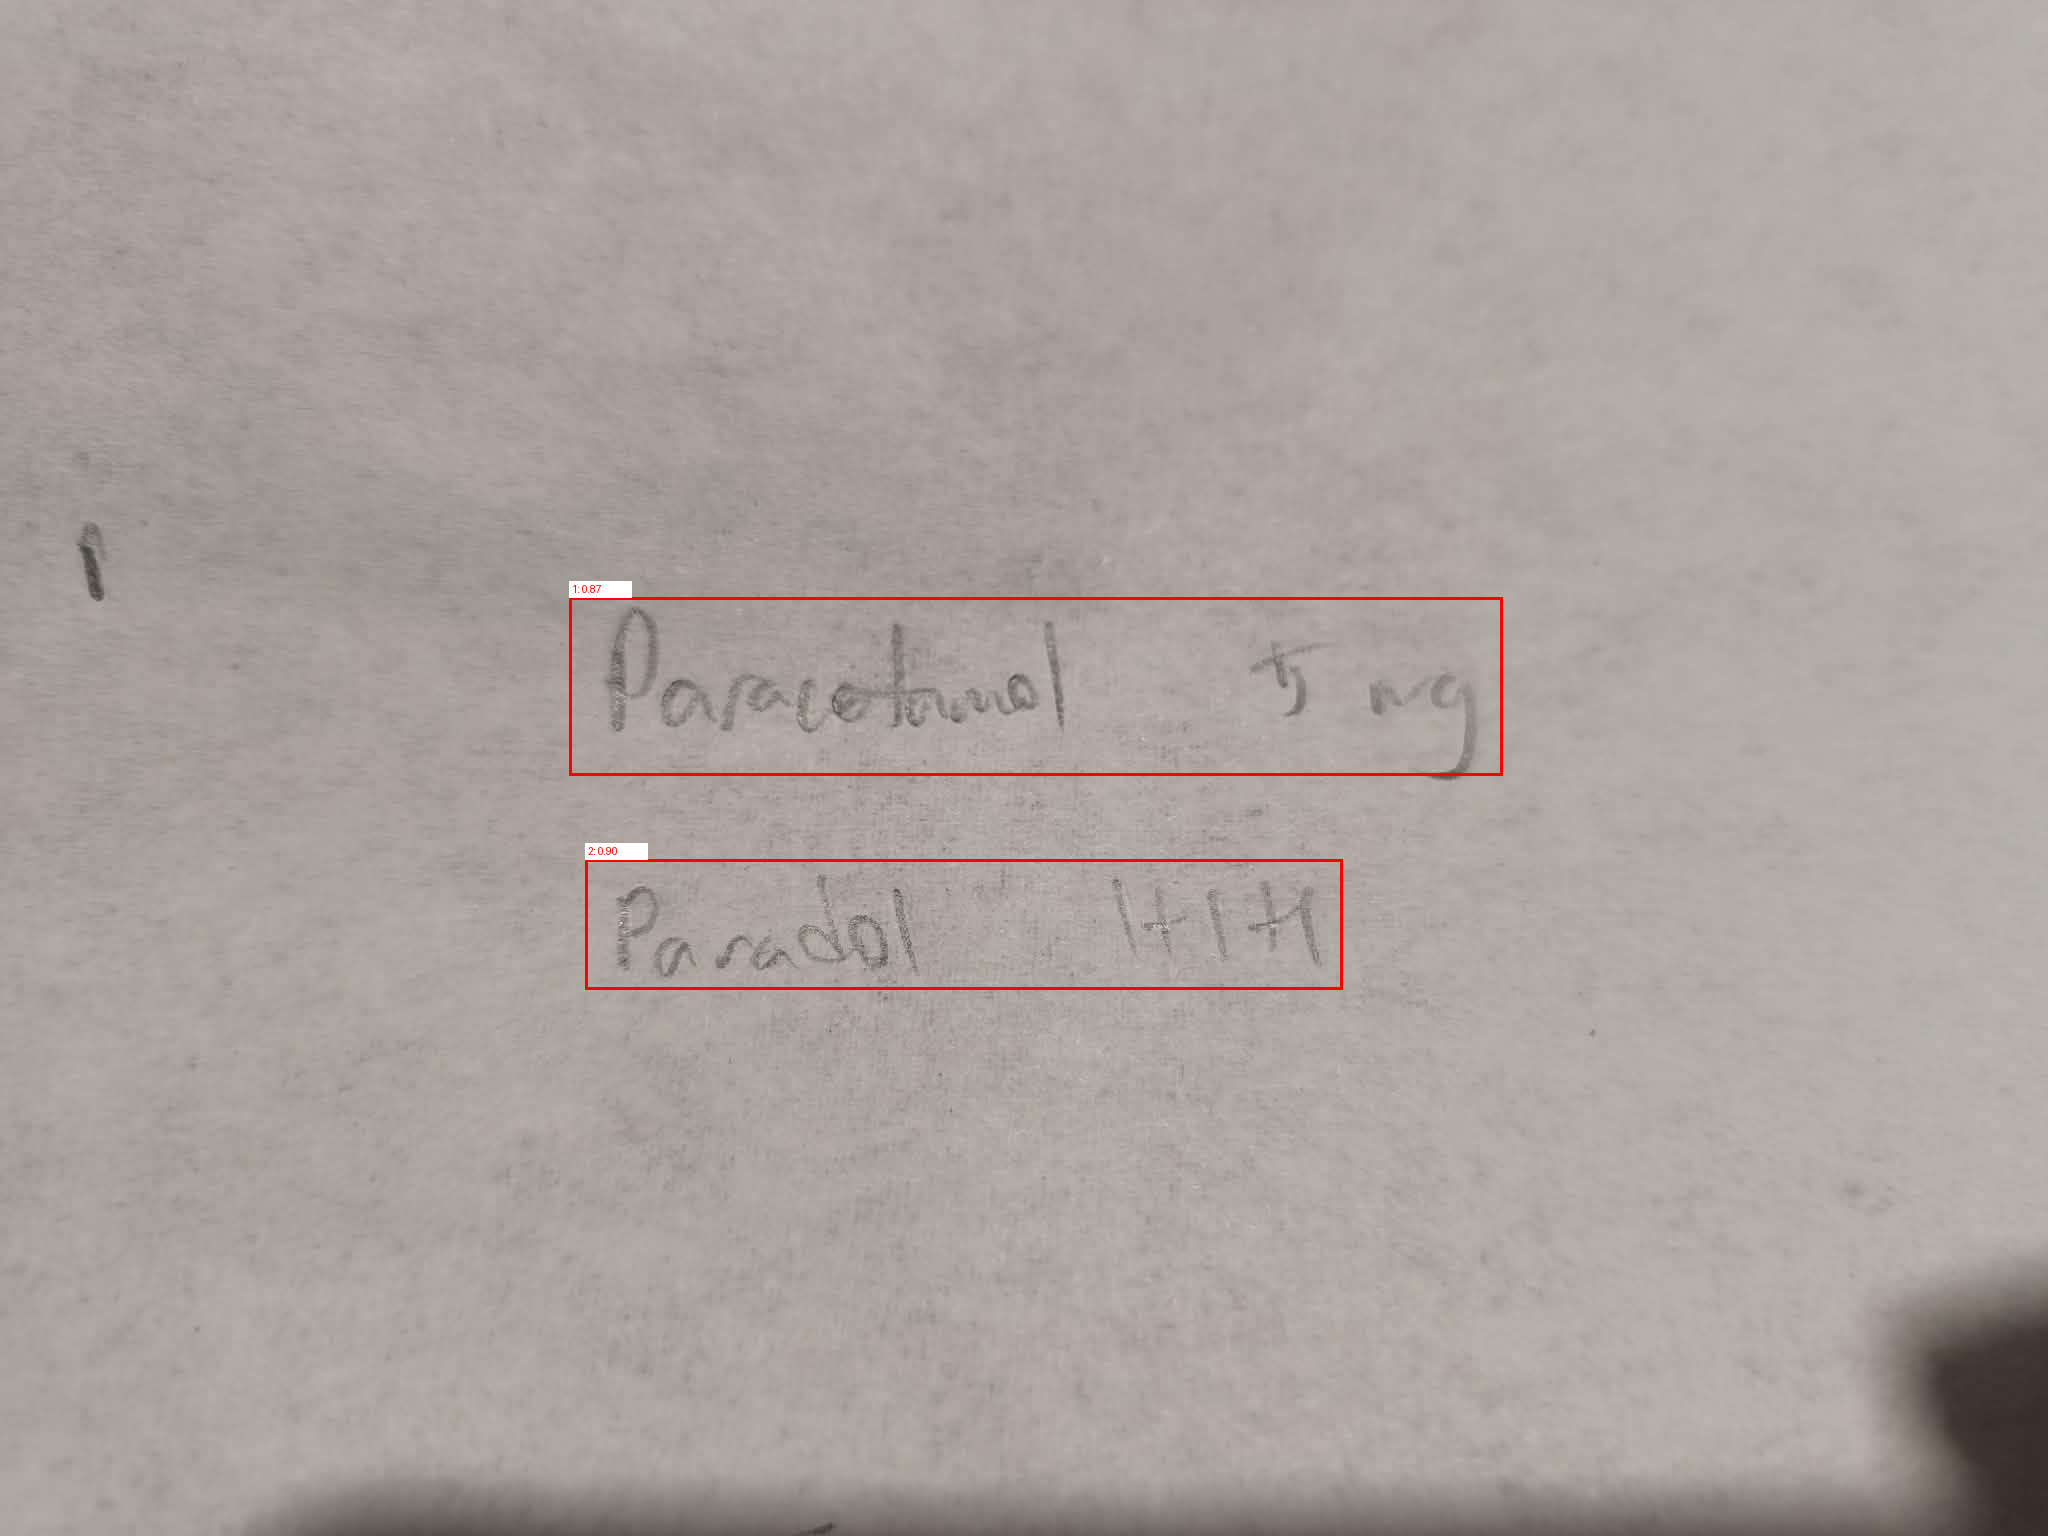
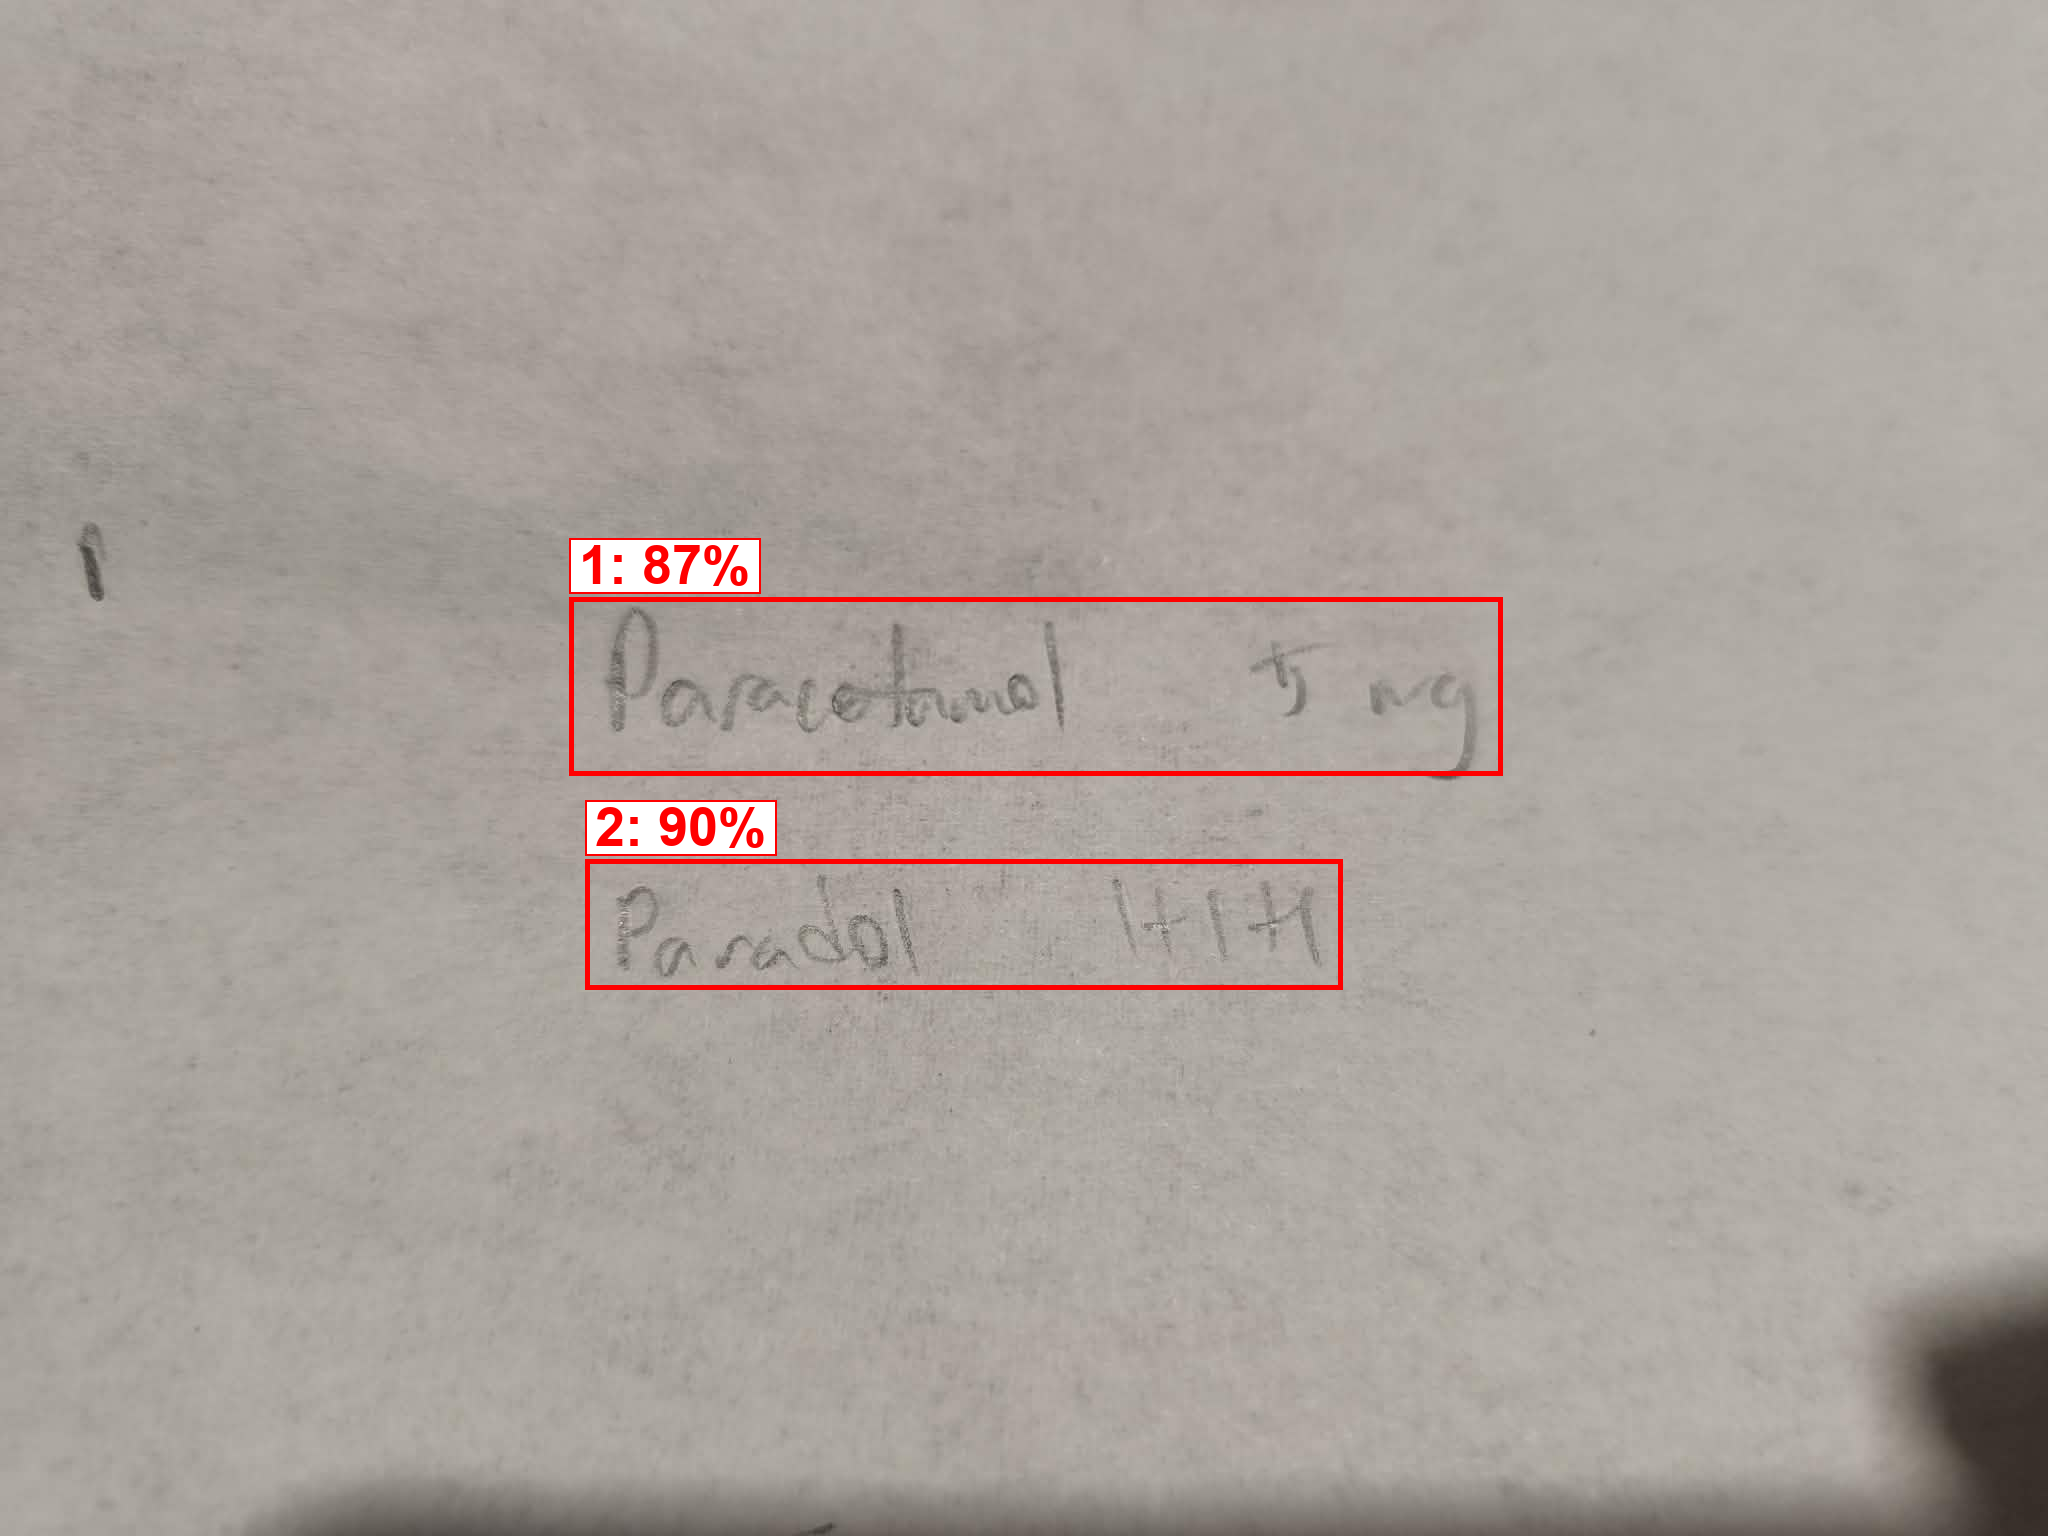
larger confidence

Changed region(s): [[0.2812, 0.5, 0.4062, 0.5625], [0.2812, 0.3438, 0.375, 0.4062]]

diff --git a/app/services/cropping.py b/app/services/cropping.py
@@ -31,19 +31,56 @@ def sort_reading_order(predictions: list[dict[str, Any]]) -> list[dict[str, Any]
     return sorted(predictions, key=lambda pred: (float(pred["y"]), float(pred["x"])))
 
 
+def load_annotation_font(image_width: int) -> ImageFont.ImageFont:
+    font_size = max(26, min(54, image_width // 32))
+    for font_name in ("DejaVuSans-Bold.ttf", "arialbd.ttf", "Arial Bold.ttf"):
+        try:
+            return ImageFont.truetype(font_name, font_size)
+        except OSError:
+            continue
+    return ImageFont.load_default()
+
+
 def draw_predictions(image: Image.Image, predictions: list[dict[str, Any]], padding: int) -> Image.Image:
     annotated = image.copy()
     draw = ImageDraw.Draw(annotated)
     image_width, image_height = annotated.size
-    font = ImageFont.load_default()
+    font = load_annotation_font(image_width)
+    box_width = max(4, image_width // 350)
 
     for index, prediction in enumerate(sort_reading_order(predictions), start=1):
         box = prediction_to_xyxy(prediction, image_width, image_height, padding=padding)
-        label = f"{index}: {float(prediction.get('confidence', 0)):.2f}"
-        draw.rectangle(box, outline="red", width=3)
-        label_box = (box[0], max(0, box[1] - 16), box[0] + 62, box[1])
-        draw.rectangle(label_box, fill="white")
-        draw.text((box[0] + 3, max(0, box[1] - 14)), label, fill="red", font=font)
+        confidence = float(prediction.get("confidence", 0))
+        label = f"{index}: {confidence * 100:.0f}%"
+        draw.rectangle(box, outline="red", width=box_width)
+
+        text_box = draw.textbbox((0, 0), label, font=font)
+        text_width = text_box[2] - text_box[0]
+        text_height = text_box[3] - text_box[1]
+        pad_x = 10
+        pad_y = 7
+        label_height = text_height + (pad_y * 2)
+        label_width = text_width + (pad_x * 2)
+
+        label_left = box[0]
+        label_top = box[1] - label_height - 4
+        if label_top < 0:
+            label_top = box[1] + 4
+        label_right = min(image_width, label_left + label_width)
+        label_bottom = label_top + label_height
+
+        draw.rectangle(
+            (label_left, label_top, label_right, label_bottom),
+            fill="white",
+            outline="red",
+            width=max(2, box_width // 2),
+        )
+        draw.text(
+            (label_left + pad_x, label_top + pad_y - text_box[1]),
+            label,
+            fill="red",
+            font=font,
+        )
 
     return annotated
 